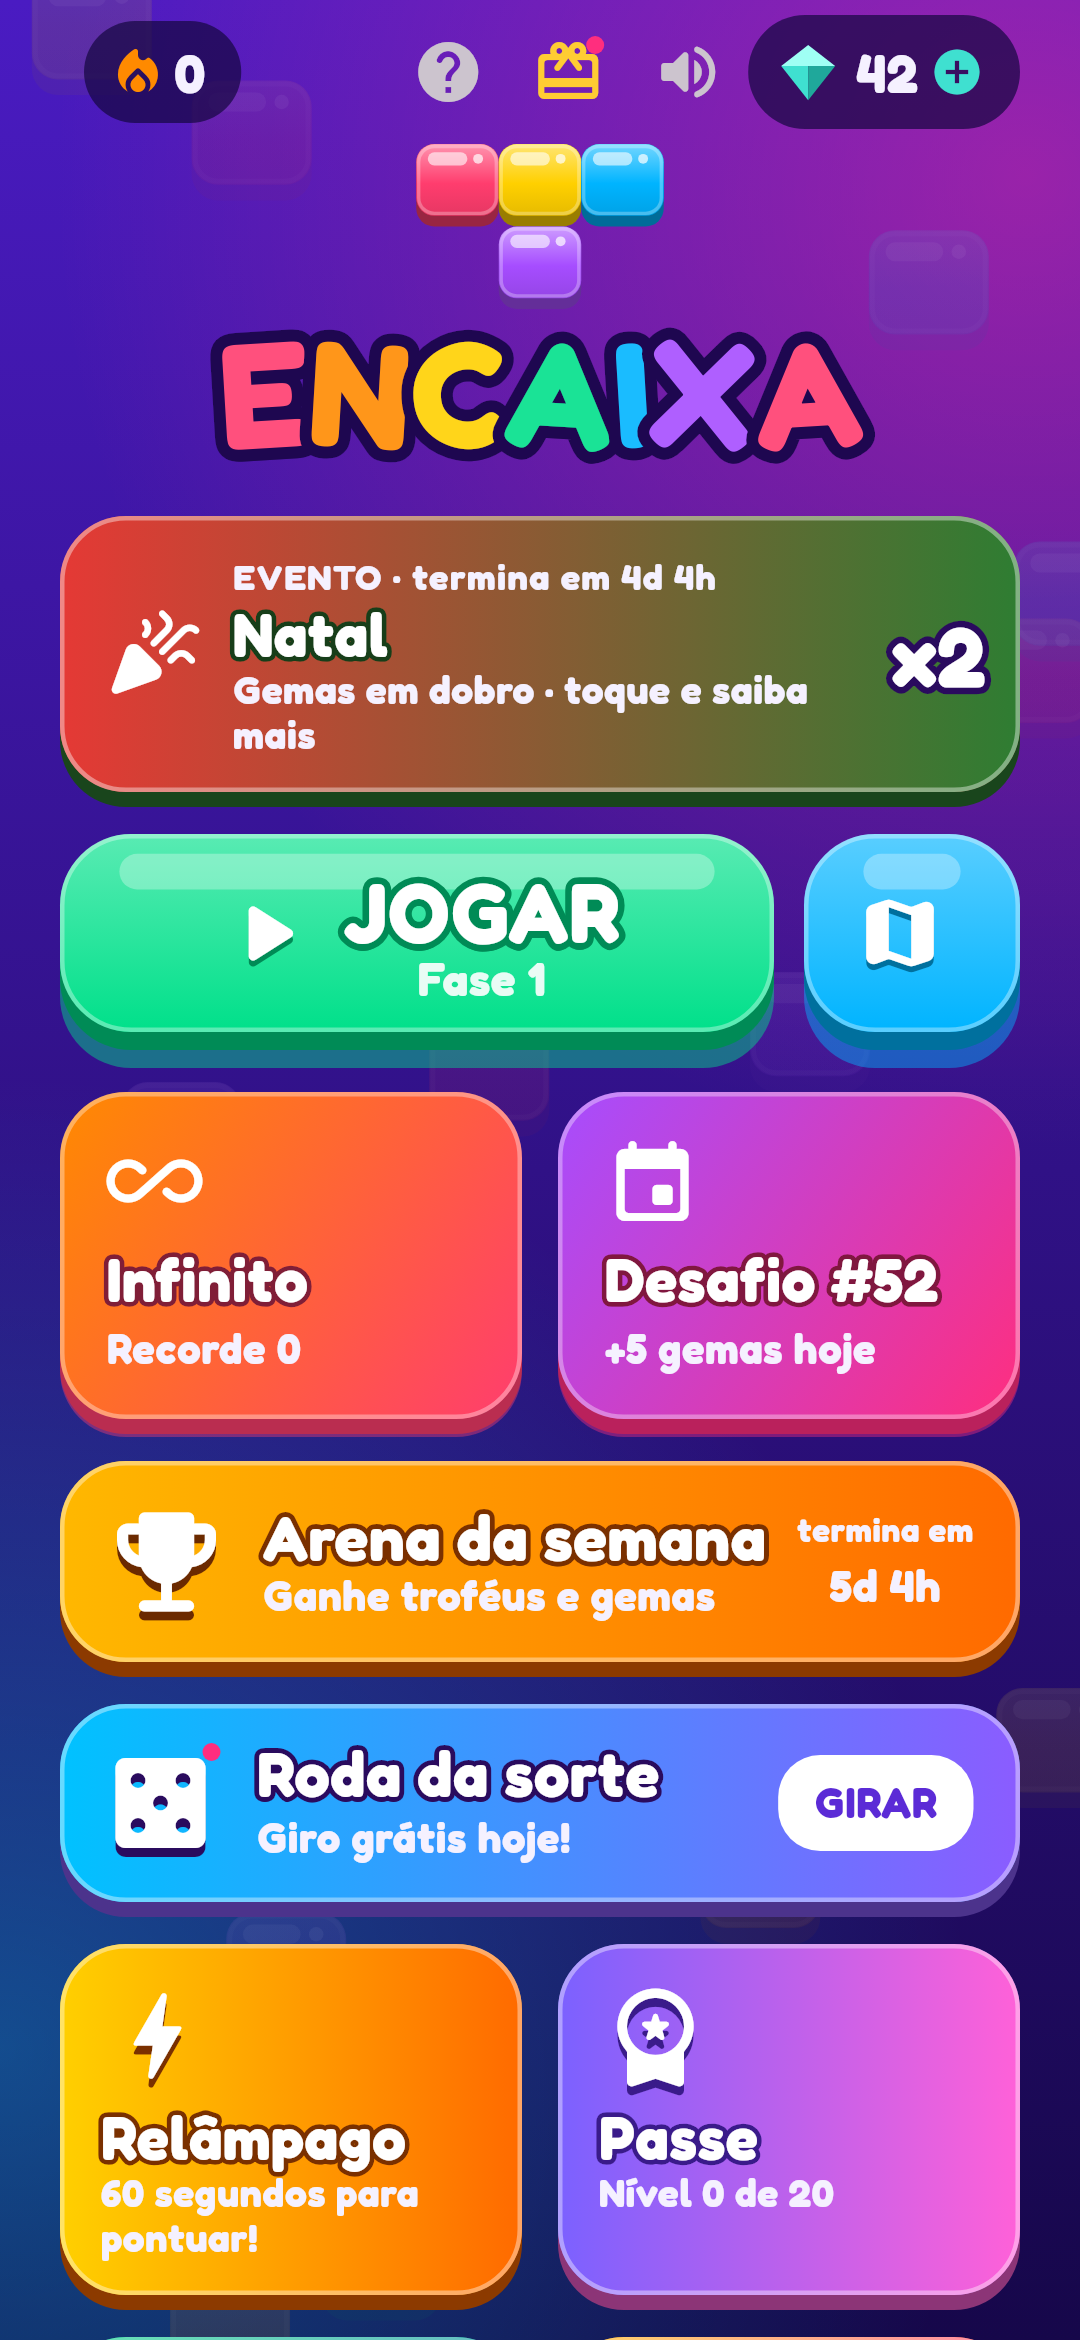
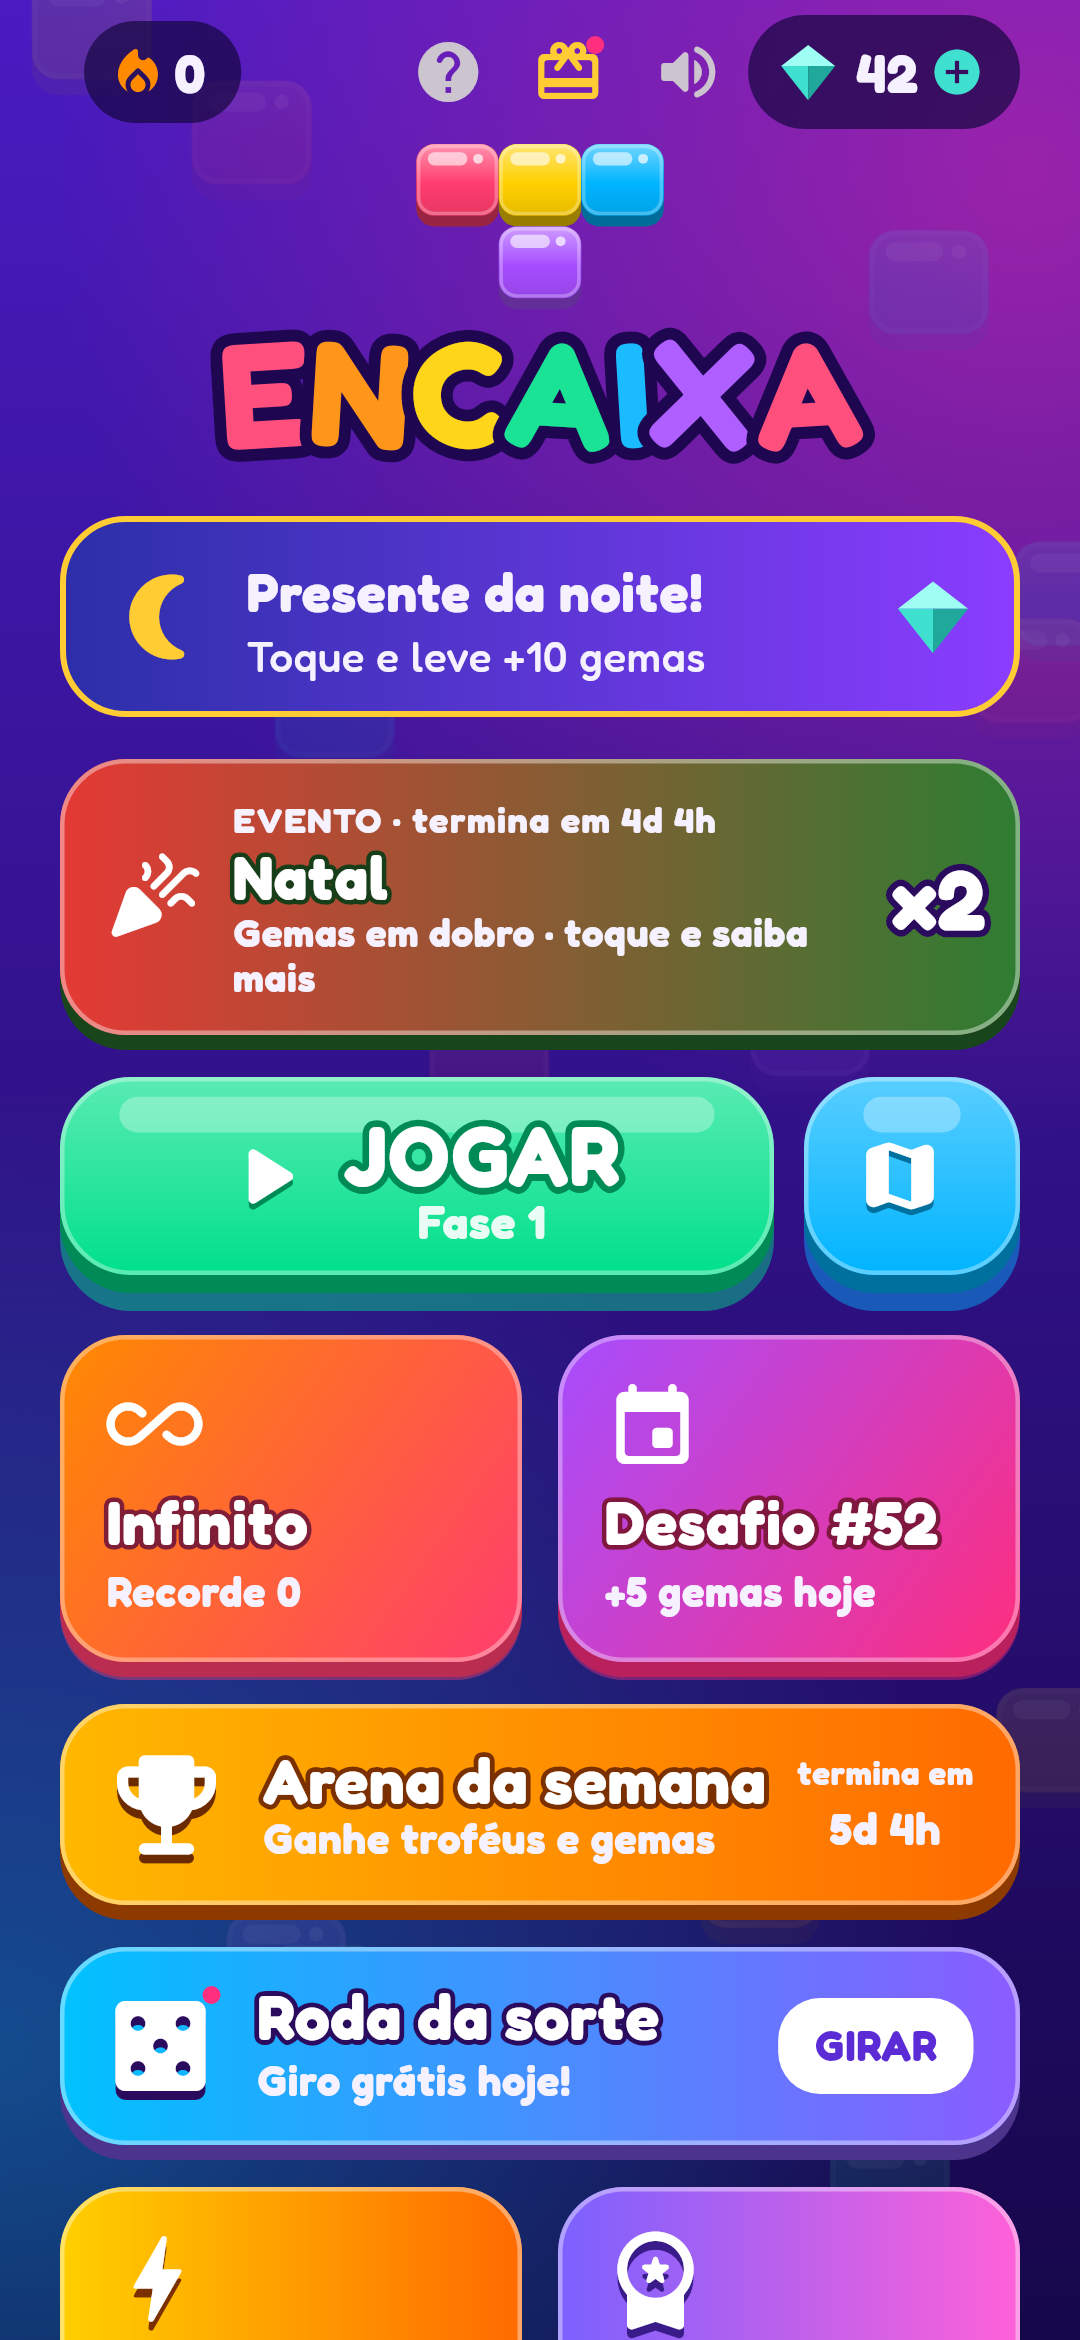
Faixas do Desafio (bronze, prata, ouro) e presente da noite depois das 19h
- Bônus de gemas pela melhor pontuação do dia, pagando só a diferença ao subir de faixa
- Presente da noite (+10 gemas, +20 XP do Passe) uma vez por dia depois das 19h; lembrete cita
- Testes e captura 38; versionCode 13

Claude-Session: https://claude.ai/code/session_0113qfSKSdakLn1Fz3YtvNms

diff --git a/app/test/faixas_noite_test.dart b/app/test/faixas_noite_test.dart
@@ -1,0 +1,77 @@
+import 'package:encaixa/jogo/missoes.dart';
+import 'package:flutter_test/flutter_test.dart';
+import 'package:material_ui/material_ui.dart';
+
+import 'suporte/capturas.dart';
+
+void main() {
+  setUpAll(carregarFontes);
+
+  test('faixas do Desafio pela pontuação', () {
+    expect(Faixa.de(0), Faixa.nenhuma);
+    expect(Faixa.de(1499), Faixa.nenhuma);
+    expect(Faixa.de(1500), Faixa.bronze);
+    expect(Faixa.de(4000), Faixa.prata);
+    expect(Faixa.de(7999), Faixa.prata);
+    expect(Faixa.de(8000), Faixa.ouro);
+    expect(Faixa.de(50000), Faixa.ouro);
+  });
+
+  test('o bônus da faixa paga só a diferença quando o jogador melhora no mesmo dia', () async {
+    final s = await servicosDeTeste(valores: {'gemas': 0});
+    final p = s.progresso;
+    const dia = 20261112;
+    final base = await p.concluirDesafio(dia, 1600);
+    expect(base, 5, reason: 'o retorno continua sendo só as gemas do Desafio (+ sequência)');
+    expect(p.pegarFaixaRecente()?.faixa, Faixa.bronze);
+    expect(p.pegarFaixaRecente(), isNull, reason: 'só aparece uma vez');
+    expect(p.gemas, 5 + 3);
+    await p.concluirDesafio(dia, 1700); // melhorou, mas continua bronze
+    expect(p.pegarFaixaRecente(), isNull);
+    expect(p.gemas, 5 + 3);
+    await p.concluirDesafio(dia, 9000); // pulou para ouro: paga 15 - 3
+    expect(p.pegarFaixaRecente()?.gemas, 12);
+    expect(p.gemas, 5 + 15);
+    await p.concluirDesafio(dia, 9500);
+    expect(p.gemas, 5 + 15, reason: 'ouro não paga de novo');
+    // no dia seguinte começa do zero
+    await p.concluirDesafio(dia + 1, 4100);
+    expect(p.pegarFaixaRecente()?.faixa, Faixa.prata);
+  });
+
+  test('pontuação abaixo de bronze não dá bônus', () async {
+    final s = await servicosDeTeste(valores: {'gemas': 0});
+    await s.progresso.concluirDesafio(20261112, 300);
+    expect(s.progresso.pegarFaixaRecente(), isNull);
+    expect(s.progresso.gemas, 5);
+  });
+
+  test('presente da noite: só depois das 19h e uma vez por dia', () async {
+    final s = await servicosDeTeste(valores: {'gemas': 0});
+    final p = s.progresso;
+    const dia = 20261112;
+    expect(p.presenteDaNoiteDisponivel(dia, DateTime(2026, 11, 12, 18, 59)), isFalse);
+    expect(await p.pegarPresenteDaNoite(dia, DateTime(2026, 11, 12, 18, 59)), 0);
+    expect(p.presenteDaNoiteDisponivel(dia, DateTime(2026, 11, 12, 19)), isTrue);
+    expect(await p.pegarPresenteDaNoite(dia, DateTime(2026, 11, 12, 21)), gemasDaNoite);
+    expect(await p.pegarPresenteDaNoite(dia, DateTime(2026, 11, 12, 22)), 0, reason: 'uma vez por dia');
+    expect(p.presenteDaNoiteDisponivel(dia + 1, DateTime(2026, 11, 13, 20)), isTrue, reason: 'no dia seguinte volta');
+    expect(p.gemas, gemasDaNoite);
+    expect(p.passeXp(dia), 20);
+  });
+
+  testWidgets('tela inicial depois das 19h mostra o presente da noite e pega', (tester) async {
+    telaDeCelular(tester, tamanho: const Size(360, 800));
+    final s = await servicosDeTeste(hoje: DateTime(2026, 11, 12, 20), valores: {'gemas': 0});
+    await tester.pumpWidget(appDeTeste(s));
+    await tester.pump(const Duration(seconds: 1));
+    expect(find.text('Presente da noite!'), findsOneWidget);
+    await capturar(tester, '38-presente-da-noite');
+    await tester.tap(find.text('Presente da noite!'));
+    await tester.pump(const Duration(milliseconds: 300));
+    expect(s.progresso.gemas, gemasDaNoite);
+    await tester.pump(const Duration(seconds: 1));
+    expect(find.text('Presente da noite!'), findsNothing);
+    expect(tester.takeException(), isNull);
+  });
+}

diff --git a/app/lib/telas/inicio_tela.dart b/app/lib/telas/inicio_tela.dart
@@ -144,6 +144,19 @@ class _InicioTelaState extends State<InicioTela> {
                         const SizedBox(height: 4),
                         const Logo(tamanho: 50),
                         const SizedBox(height: 14),
+                        if (p.presenteDaNoiteDisponivel(dia, hoje)) ...[
+                          _PresenteDaNoite(
+                            aoTocar: () async {
+                              final gemas = await p.pegarPresenteDaNoite(dia, servicos.hoje());
+                              if (gemas > 0 && context.mounted) {
+                                ScaffoldMessenger.of(context)
+                                  ..clearSnackBars()
+                                  ..showSnackBar(SnackBar(content: Text('Boa noite! +$gemas gemas')));
+                              }
+                            },
+                          ),
+                          const SizedBox(height: 14),
+                        ],
                         if (_BannerEvento.temAlgo(hoje)) ...[
                           GestureDetector(
                             onTap: () => mostrarDica(context, Dicas.eventos),
@@ -1145,6 +1158,50 @@ class _DialogoCodigoAmigoState extends State<_DialogoCodigoAmigo> {
       FilledButton(onPressed: _campo.text.trim().isEmpty ? null : _comecar, child: const Text('Jogar')),
     ],
   );
+}
+
+/// Segundo presente do dia, depois das 19h.
+class _PresenteDaNoite extends StatelessWidget {
+  const _PresenteDaNoite({required this.aoTocar});
+
+  final VoidCallback aoTocar;
+
+  @override
+  Widget build(BuildContext context) {
+    const cores = [Color(0xFF2B2FA8), Color(0xFF8B3DFF)];
+    return Semantics(
+      button: true,
+      label: 'Presente da noite',
+      child: GestureDetector(
+        onTap: aoTocar,
+        child: Container(
+          padding: const EdgeInsets.fromLTRB(14, 10, 14, 10),
+          decoration: BoxDecoration(
+            borderRadius: BorderRadius.circular(22),
+            gradient: const LinearGradient(colors: cores),
+            border: Border.all(color: Cores.ouro, width: 2),
+            boxShadow: [BoxShadow(color: cores.last.withValues(alpha: 0.5), blurRadius: 18)],
+          ),
+          child: Row(
+            children: [
+              const Icon(Icons.nightlight_round, size: 34, color: Cores.ouro),
+              const SizedBox(width: 12),
+              const Expanded(
+                child: Column(
+                  crossAxisAlignment: CrossAxisAlignment.start,
+                  children: [
+                    Text('Presente da noite!', style: TextStyle(fontSize: 18, fontWeight: FontWeight.w700)),
+                    Text('Toque e leve +$gemasDaNoite gemas', style: TextStyle(fontSize: 14, height: 1.2)),
+                  ],
+                ),
+              ),
+              const IconeGema(tamanho: 26),
+            ],
+          ),
+        ),
+      ),
+    );
+  }
 }
 
 /// Atalho pequeno (metade da largura): Álbum e Conquistas. O selo avisa quando há prêmio para pegar.

diff --git a/app/lib/servicos/progresso.dart b/app/lib/servicos/progresso.dart
@@ -139,6 +139,12 @@ class Progresso extends ChangeNotifier {
   Future<int> concluirDesafio(int dia, int pontos) async {
     if (desafioFeito == dia && pontos <= desafioPontos) return 0;
     final primeiraVez = desafioFeito != dia;
+    // Faixa: paga só a diferença para a melhor faixa que o jogador já tinha hoje.
+    final antes = primeiraVez ? Faixa.nenhuma : Faixa.de(desafioPontos);
+    final agora = Faixa.de(pontos);
+    final bonusFaixa = agora.gemas - antes.gemas;
+    _faixaRecente = bonusFaixa > 0 ? (faixa: agora, gemas: bonusFaixa) : null;
+    if (bonusFaixa > 0) await ganharGemas(bonusFaixa);
     var gemasGanhas = 0;
     if (primeiraVez) {
       final dias = sequencia(dia) + 1;
@@ -159,6 +165,29 @@ class Progresso extends ChangeNotifier {
     await ganharGemas(gemasGanhas);
     notifyListeners();
     return gemasGanhas;
+  }
+
+  /// Faixa conquistada agora no Desafio (só em memória; a tela mostra e limpa).
+  ({Faixa faixa, int gemas})? _faixaRecente;
+
+  ({Faixa faixa, int gemas})? pegarFaixaRecente() {
+    final f = _faixaRecente;
+    _faixaRecente = null;
+    return f;
+  }
+
+  // ---------- presente da noite ----------
+
+  /// Depois das 19h há um segundo presente por dia (o mesmo horário do lembrete do Desafio).
+  bool presenteDaNoiteDisponivel(int dia, DateTime agora) =>
+      agora.hour >= 19 && (_prefs.getInt('noiteDia') ?? 0) != dia;
+
+  Future<int> pegarPresenteDaNoite(int dia, DateTime agora) async {
+    if (!presenteDaNoiteDisponivel(dia, agora)) return 0;
+    await _prefs.setInt('noiteDia', dia);
+    await ganharGemas(gemasDaNoite);
+    await ganharXpDoPasse(dia, 20);
+    return gemasDaNoite;
   }
 
   /// O progresso acabou de voltar sozinho da cópia automática (a tela inicial avisa o jogador uma vez).

diff --git a/app/lib/telas/jogo_tela.dart b/app/lib/telas/jogo_tela.dart
@@ -112,6 +112,7 @@ class _JogoTelaState extends State<JogoTela> {
   late int _restanteMs = widget.duracao.inMilliseconds;
   bool _comecou = false;
   ({Album album, Figurinha figurinha, bool completou})? _figurinhaNova;
+  ({Faixa faixa, int gemas})? _faixaNova;
 
   /// Fases: peças extras ganhas na ajuda (uma ajuda por tentativa).
   int _extras = 0;
@@ -529,6 +530,7 @@ class _JogoTelaState extends State<JogoTela> {
     final gemasAmigo = widget.amigo == null ? 0 : await _s.progresso.concluirDesafioDeAmigo(widget.amigo!, pontos);
     if (gemasAmigo > 0) await _s.progresso.ganharXpDoPasse(_dia, XpDoPasse.amigo);
     if (widget.diario) _figurinhaNova = _s.progresso.pegarFigurinhaRecente();
+    if (widget.diario) _faixaNova = _s.progresso.pegarFaixaRecente();
     if (widget.diario) _s.reagendarLembrete(); // hoje já jogou: o próximo lembrete passa para amanhã
     if (widget.arena) {
       await _s.progresso.registrarArena(_semana, pontos);
@@ -1152,6 +1154,7 @@ class _JogoTelaState extends State<JogoTela> {
           [
             'Desafio do dia concluído!',
             if (_gemasDesafio > 0) '+$_gemasDesafio gemas',
+            if (_faixaNova case final f?) 'Faixa ${f.faixa.nome}! +${f.gemas} gemas',
             if (premioDaSequencia(_s.progresso.sequencia(_dia)) > 0 && _gemasDesafio > 0)
               'Marco de ${_s.progresso.sequencia(_dia)} dias! 🎉',
             if (_s.progresso.sequencia(_dia) == 30 && _gemasDesafio > 0) 'Tema Chama liberado na Loja!',

diff --git a/app/lib/jogo/missoes.dart b/app/lib/jogo/missoes.dart
@@ -96,6 +96,26 @@ int? proximoMarco(int dias) {
   return null;
 }
 
+/// Faixas de pontuação do Desafio do dia: bônus de gemas pela melhor pontuação do dia (não se soma entre faixas).
+enum Faixa {
+  nenhuma('', 0, 0),
+  bronze('Bronze', 1500, 3),
+  prata('Prata', 4000, 8),
+  ouro('Ouro', 8000, 15);
+
+  const Faixa(this.nome, this.pontos, this.gemas);
+
+  final String nome;
+  final int pontos;
+  final int gemas;
+
+  /// A maior faixa alcançada com [pontos].
+  static Faixa de(int pontos) => values.lastWhere((f) => pontos >= f.pontos);
+}
+
+/// Gemas do presente da noite.
+const gemasDaNoite = 10;
+
 /// Gemas pelo Relâmpago: 1 a cada 150 pontos, no máximo 15.
 int gemasDoRelampago(int pontos) => (pontos ~/ 150).clamp(0, 15);
 

diff --git a/app/lib/widgets/dicas.dart b/app/lib/widgets/dicas.dart
@@ -70,6 +70,8 @@ abstract final class Dicas {
     'Todo dia um desafio novo, com as MESMAS peças para todo mundo.',
     'Jogue para ganhar +5 gemas e manter a sua sequência de dias 🔥.',
     'Prêmios extras com 3, 7, 14 e 30 dias seguidos.',
+    'Faixas de pontuação no dia: Bronze (1.500) +3 gemas, Prata (4.000) +8 e Ouro (8.000) +15.',
+    'Depois das 19h tem ainda um presente da noite na tela inicial.',
     'Compartilhe a pontuação e desafie os amigos.',
   ]);
 

diff --git a/app/lib/servicos/lembrete.dart b/app/lib/servicos/lembrete.dart
@@ -74,7 +74,7 @@ class LembreteLocal implements Lembrete {
       await _android!.zonedSchedule(
         id: _id,
         title: 'Desafio do dia no Encaixa',
-        body: 'O desafio de hoje está esperando. Mantenha a sua sequência!',
+        body: 'O desafio de hoje e o presente da noite estão esperando. Mantenha a sua sequência!',
         scheduledDate: instante,
         notificationDetails: const AndroidNotificationDetails(
           'desafio',

diff --git a/docs/JOGO.md b/docs/JOGO.md
@@ -164,3 +164,8 @@ as mesmas. Regras em `app/lib/jogo/partida.dart` e `peca.dart`; testes em `test/
 ## Quadrinho, o mascote
 Um bloco simpático desenhado em código (`app/lib/widgets/mascote.dart`, sem imagens) aparece no fim da partida e reage:
 festa no novo recorde, feliz na partida normal e tristinho se foi bem abaixo do recorde, com uma frase de incentivo.
+
+## Faixas do Desafio e presente da noite
+**Faixas** pela melhor pontuação do Desafio no dia: Bronze (1.500) +3 gemas, Prata (4.000) +8, Ouro (8.000) +15. Não
+soma entre faixas: ao subir de faixa no mesmo dia paga só a diferença. **Presente da noite**: depois das 19h aparece na
+tela inicial um segundo presente (+10 gemas e 20 XP do Passe) uma vez por dia; o lembrete das 19h cita ele.
